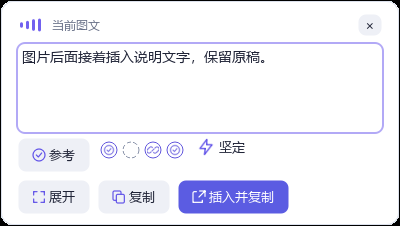
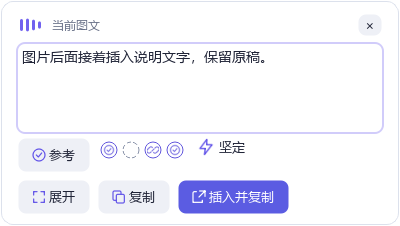
Include bootloader notices and polish product media

diff --git a/tools/collect_runtime_notices.py b/tools/collect_runtime_notices.py
@@ -18,7 +18,7 @@ def qt_binary_allowed(destination):
 def collect(module_names, binary_destinations, root, output):
     output.mkdir(parents=True, exist_ok=True)
     mapping = metadata.packages_distributions()
-    packages = {'PySide6','PySide6_Essentials','PySide6_Addons','shiboken6'}
+    packages = {'PySide6','PySide6_Essentials','PySide6_Addons','shiboken6','pyinstaller'}
     for name in module_names:
         packages.update(mapping.get(name.split('.')[0], []))
     for name in binary_destinations:

diff --git a/README.en.md b/README.en.md
@@ -52,7 +52,7 @@ Jev supports TypeSafe, OpenRouter, Vercel and compatible custom endpoints. Rewri
 ## Downloads, data and compatibility
 
 - [Releases](https://github.com/aaakoako/DoubaoTypeless/releases) include a per-user installer and a complete portable archive. Extract the entire portable folder.
-- A browser on your phone and Windows 10/11 on desktop. Compatibility depends on your browser, input method and target application.
+- The app UI is currently primarily Simplified Chinese. A browser on your phone and Windows 10/11 on desktop. Compatibility depends on your browser, input method and target application.
 - A user has confirmed sequential image/text insertion in Codex desktop. **Automatic detection is not guaranteed for every composer.** Cursor, multi-monitor setups and physical mobile keyboards need further validation.
 - Drafts, images and settings are stored locally. Offline writing and reconnection reconciliation are supported. Upgrades retain the workspace; uninstalling does not intentionally remove drafts.
 - Use the bridge on trusted networks. Enabling model features sends relevant text to your selected provider.
